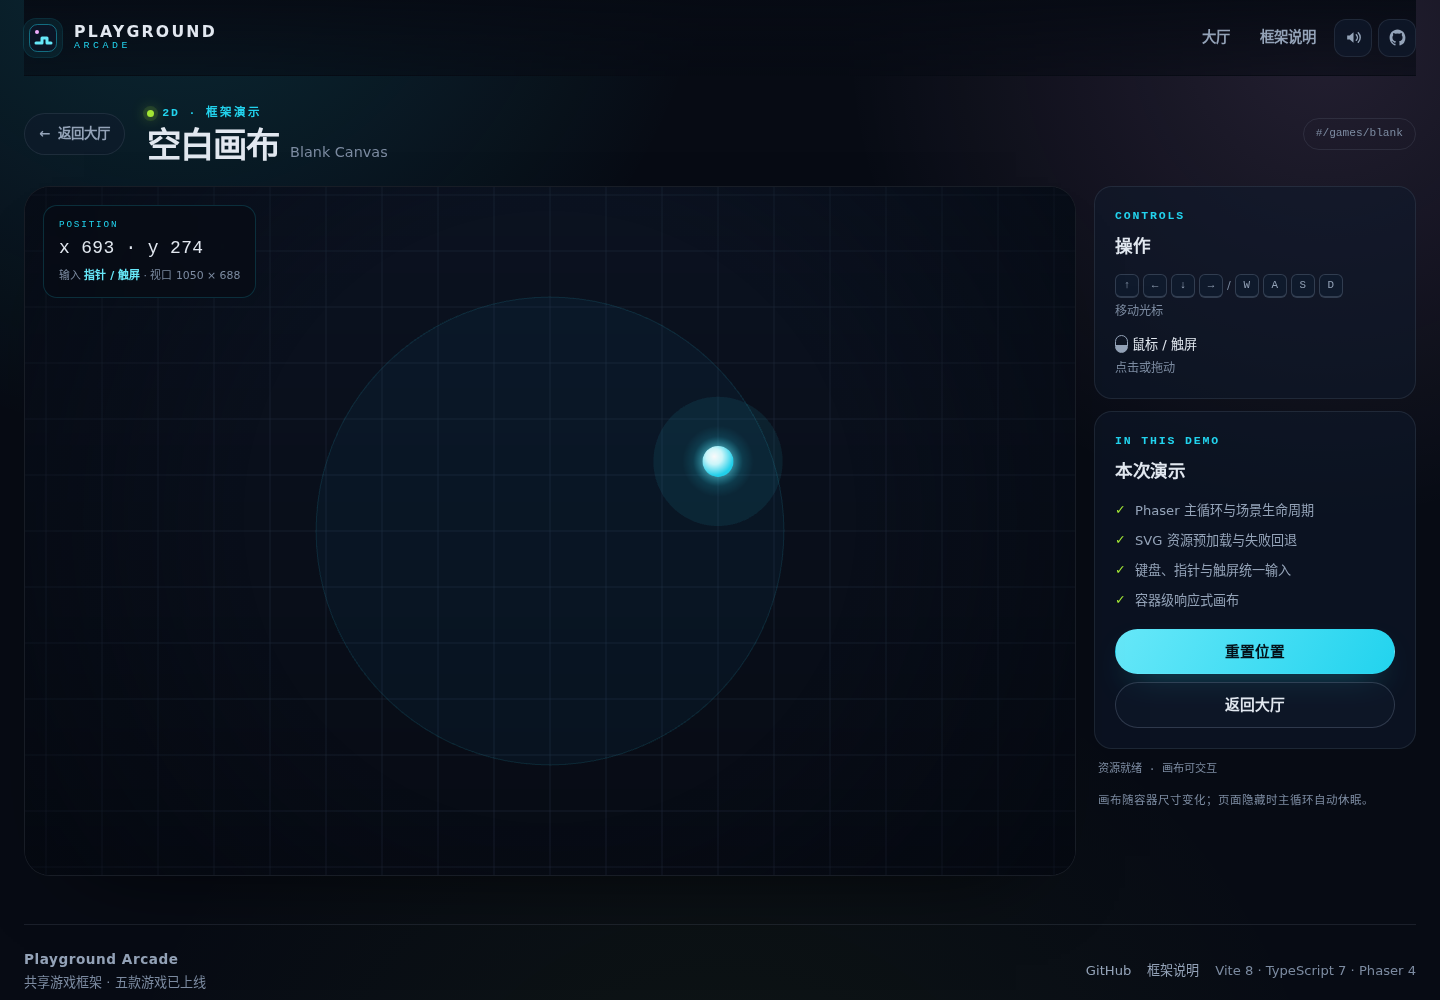
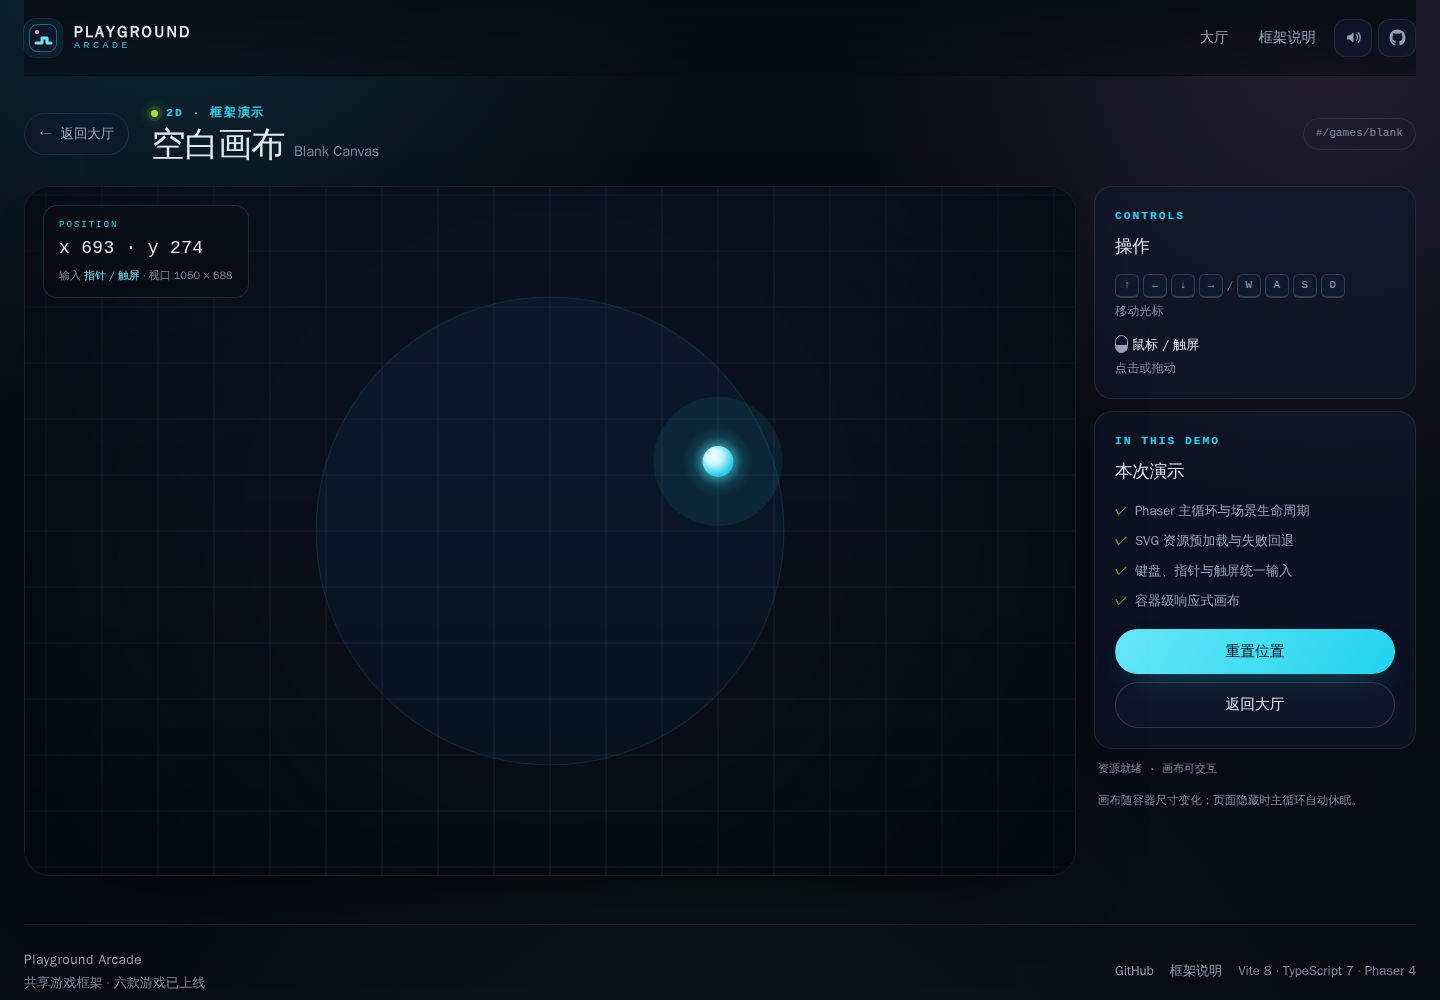
固定容器重拍空白画布证据并纳入 doc-dims 校验 (#429)
- 在固定 Playwright 容器用 `npm run screenshots:container -- screenshots` 连续两跑，
  两张空白画布图逐字节一致（desktop e8b5ec… / mobile 5fde4b…），与 base 7f90dcd
  的固定容器记录一致；顺带写出的 hub 图已还原，WebKit 清单未改动。
- docs/screenshots/README.md：复现改为固定容器命令，撤销宿主 `npm run screenshots`
  重跑等于已提交产物的断言（历史快照按 #137 口径区分）；t2「After」表补 CSS 视口 /
  PNG 尺寸与完整 sha256，doc-dims 计数同步为 30 行 / 30 文件、视口 14、sha256 16。
- tests/unit/screenshot-doc-dims.test.ts：更新计数、viewport 文件集合、hashed rows
  与 CLI 输出断言，并新增两张空白图的尺寸与完整 sha256 断言。

验证：npm run build、npm run lint、npm run test:unit（1666 passed）、
npm run verify:screenshots:doc-dims、npm run verify:screenshots:sha256 通过。

diff --git a/tests/unit/screenshot-doc-dims.test.ts b/tests/unit/screenshot-doc-dims.test.ts
@@ -250,18 +250,18 @@ describe('parseDocDimensions', () => {
     ]);
   });
 
-  it('lists the 16 full-page and 12 viewport rows in the committed README', () => {
+  it('lists the 16 full-page and 14 viewport rows in the committed README', () => {
     const rows = parseDocDimensions(readFileSync(README, 'utf8'));
     const fullPage = rows.filter((row) => row.kind === 'full-page');
     const viewport = rows.filter((row) => row.kind === 'viewport');
     const fullPageFiles = fullPage.flatMap((row) => row.files);
     const viewportFiles = viewport.flatMap((row) => row.files);
 
-    expect(rows).toHaveLength(28);
+    expect(rows).toHaveLength(30);
     expect(fullPage).toHaveLength(16);
     expect(fullPageFiles).toHaveLength(16);
-    expect(viewport).toHaveLength(12);
-    expect(viewportFiles).toHaveLength(12);
+    expect(viewport).toHaveLength(14);
+    expect(viewportFiles).toHaveLength(14);
     expect(
       fullPageFiles.filter((file) => file.includes('scores') && !file.includes('clear')),
     ).toHaveLength(4);
@@ -281,6 +281,8 @@ describe('parseDocDimensions', () => {
         'after-hub-hero-1440x1000.png',
         'before-hub-hero-320x640.png',
         'after-hub-hero-320x640.png',
+        'after-blank-desktop.png',
+        'after-blank-mobile.png',
       ]),
     );
 
@@ -289,7 +291,8 @@ describe('parseDocDimensions', () => {
     );
     for (const file of ['before-zhen-sha-route-desktop.png', 'after-zhen-sha-route-desktop.png',
       'before-hub-copy-desktop.png', 'after-hub-copy-desktop.png',
-      'before-hub-hero-1440x1000.png', 'after-hub-hero-1440x1000.png']) {
+      'before-hub-hero-1440x1000.png', 'after-hub-hero-1440x1000.png',
+      'after-blank-desktop.png']) {
       expect(viewportByFile.get(file)).toMatchObject({
         viewportWidth: 1440,
         viewportHeight: 1000,
@@ -307,9 +310,15 @@ describe('parseDocDimensions', () => {
         height: 1280,
       });
     }
+    expect(viewportByFile.get('after-blank-mobile.png')).toMatchObject({
+      viewportWidth: 390,
+      viewportHeight: 844,
+      width: 780,
+      height: 1688,
+    });
   });
 
-  it('documents a complete sha256 for the 12 viewport rows and 2 hub full-page rows', () => {
+  it('documents a complete sha256 for the 14 viewport rows and 2 hub full-page rows', () => {
     const readmeText = readFileSync(README, 'utf8');
     const rows = parseDocDimensions(readmeText);
     const hashedRows = rows.filter((row) => row.hashes.some((hash) => hash !== null));
@@ -329,6 +338,8 @@ describe('parseDocDimensions', () => {
       'after-hub-hero-1440x1000.png',
       'before-hub-hero-320x640.png',
       'after-hub-hero-320x640.png',
+      'after-blank-desktop.png',
+      'after-blank-mobile.png',
     ]);
     for (const row of hashedRows) {
       expect(row.files).toHaveLength(1);
@@ -351,6 +362,35 @@ describe('parseDocDimensions', () => {
       expect(row?.hashes).toEqual([
         sha256Of(readFileSync(join(SCREENSHOT_DIR, file))),
       ]);
+    }
+
+    const blankRows = rows.filter((row) =>
+      row.files.some(
+        (file) => file === 'after-blank-desktop.png' || file === 'after-blank-mobile.png',
+      ),
+    );
+    expect(blankRows).toHaveLength(2);
+    const blankRowsByFile = new Map(
+      blankRows.flatMap((row) => row.files.map((file) => [file, row] as const)),
+    );
+    for (const [file, expected] of [
+      [
+        'after-blank-desktop.png',
+        { viewportWidth: 1440, viewportHeight: 1000, width: 1440, height: 1000 },
+      ],
+      [
+        'after-blank-mobile.png',
+        { viewportWidth: 390, viewportHeight: 844, width: 780, height: 1688 },
+      ],
+    ] as const) {
+      const row = blankRowsByFile.get(file);
+      expect(row?.kind).toBe('viewport');
+      expect(row).toMatchObject(expected);
+      expect(row?.hashes).toEqual([sha256Of(readFileSync(join(SCREENSHOT_DIR, file)))]);
+      expect(readPngDimensions(join(SCREENSHOT_DIR, file))).toEqual({
+        width: expected.width,
+        height: expected.height,
+      });
     }
   });
 });
@@ -849,18 +889,18 @@ describe('parsePngDimensions', () => {
 });
 
 describe('verifyDocDimensions', () => {
-  it('passes for the committed README with 28 rows and 28 files', () => {
+  it('passes for the committed README with 30 rows and 30 files', () => {
     const report = verifyDocDimensions({
       readmeText: readFileSync(README, 'utf8'),
       dir: SCREENSHOT_DIR,
     });
 
     expect(report).toEqual({
-      rows: 28,
-      files: 28,
+      rows: 30,
+      files: 30,
       fullPageRows: 16,
-      viewportRows: 12,
-      sha256Files: 14,
+      viewportRows: 14,
+      sha256Files: 16,
       problems: [],
     });
   });
@@ -1292,10 +1332,10 @@ describe('check-screenshot-doc-dims CLI', () => {
 
     expect(stderr).toBe('');
     expect(status).toBe(0);
-    expect(stdout).toContain('28 个文件');
-    expect(stdout).toContain('28 行 README');
-    expect(stdout).toContain('整页 16 行 / 视口 12 行');
-    expect(stdout).toContain('sha256 14 个文件');
+    expect(stdout).toContain('30 个文件');
+    expect(stdout).toContain('30 行 README');
+    expect(stdout).toContain('整页 16 行 / 视口 14 行');
+    expect(stdout).toContain('sha256 16 个文件');
     expect(stdout).toContain('尺寸与 sha256 全部一致');
   });
 

diff --git a/docs/screenshots/README.md b/docs/screenshots/README.md
@@ -203,37 +203,37 @@
 
 - 覆盖范围：`docs/screenshots/README.md` 表格里的尺寸行、完整 sha256 与 `docs/screenshots/<file>.png` 逐项比对：
   - 整页行 `整页 W×H`：把文档尺寸与 PNG 签名 / IHDR 宽高比对，共 16 行 / 16 个文件，其中包括「通用大厅整页证据」收录的 `after-hub-desktop.png` / `after-hub-mobile.png`。
-  - 视口行 `CSS 视口 / PNG 尺寸`（`W1×H1 / W2×H2`）：只把斜杠后的 `W2×H2` 与 PNG 签名 / IHDR 宽高比对；斜杠前的 CSS 视口按 DPR 可能与 PNG 尺寸不同，仅作为文档元数据保留。现有 12 条视口证据是 `before/after-zhen-sha-route-desktop`、`before/after-zhen-sha-route-320x640`、`before/after-hub-copy-desktop`、`before/after-hub-copy-320x640`、`before/after-hub-hero-1440x1000`、`before/after-hub-hero-320x640`，共 12 行 / 12 个文件。
-  - 完整 sha256：同一表格行最后一列（捕获命令 / sha256）里反引号包裹的哈希按文件位置一一对齐（每个文件一个哈希槽），完整 64 位哈希用 `node:crypto` 的 SHA-256 计算 `docs/screenshots/<file>.png` 的实际哈希后比对；现有 12 条视口证据与「通用大厅整页证据」两行各带 1 个完整哈希，共 14 个文件。哈希与尺寸在同一行、同一次遍历中校验。
+  - 视口行 `CSS 视口 / PNG 尺寸`（`W1×H1 / W2×H2`）：只把斜杠后的 `W2×H2` 与 PNG 签名 / IHDR 宽高比对；斜杠前的 CSS 视口按 DPR 可能与 PNG 尺寸不同，仅作为文档元数据保留。现有 14 条视口证据：`before/after-zhen-sha-route-desktop`、`before/after-zhen-sha-route-320x640`、`before/after-hub-copy-desktop`、`before/after-hub-copy-320x640`、`before/after-hub-hero-1440x1000`、`before/after-hub-hero-320x640` 共 12 条，加上 t2「After」表的 `after-blank-desktop.png` / `after-blank-mobile.png` 2 条，共 14 行 / 14 个文件。
+  - 完整 sha256：同一表格行最后一列（捕获命令 / sha256）里反引号包裹的哈希按文件位置一一对齐（每个文件一个哈希槽），完整 64 位哈希用 `node:crypto` 的 SHA-256 计算 `docs/screenshots/<file>.png` 的实际哈希后比对；现有 14 条视口证据与「通用大厅整页证据」两行各带 1 个完整哈希，共 16 个文件。哈希与尺寸在同一行、同一次遍历中校验。
   - 省略号简写：解析器把带 `…` 的缩略哈希当作空槽跳过，不与文件比较；本 README 的表格已无缩略哈希写法（「通用大厅整页证据」两行已改用完整哈希），解析器保留该兼容分支并由测试覆盖。不带省略号的 8–63 位短十六进制若恰好是文件 sha256 的前缀，会作为截断报告（见失败表现），以免把写短的完整哈希静默放过；普通短十六进制（如表格里的 7 位提交前缀）不受影响。
-  - 合计 28 行 / 28 个文件，其中 14 个文件校验完整 sha256。只读 README 与已提交 PNG，不执行截图脚本、不写文件，也不需要浏览器或生产构建。
+  - 合计 30 行 / 30 个文件，其中 16 个文件校验完整 sha256。只读 README 与已提交 PNG，不执行截图脚本、不写文件，也不需要浏览器或生产构建。
 - CI 位置：`.github/workflows/ci.yml` 的 `verify` job，在 `Unit tests`（`npm run test:unit`）之后、`Production build`（`npm run build`）之前新增名为 `Screenshot doc dimensions` 的步骤；`verify` 的 `timeout-minutes` 保持 20。放在构建前，尺寸或哈希漂移会尽早失败。
 - 步骤命令：`npm run verify:screenshots:doc-dims`（即 `node scripts/check-screenshot-doc-dims.mjs`）。
-- 复现命令：`npm run verify:screenshots:doc-dims`。通过时输出 `OK: 检查了 28 个文件 / 28 行 README（整页 16 行 / 视口 12 行，sha256 14 个文件），尺寸与 sha256 全部一致。` 并以 0 退出；该计数与 `tests/unit/screenshot-doc-dims.test.ts` 的 CLI 契约断言一致。
+- 复现命令：`npm run verify:screenshots:doc-dims`。通过时输出 `OK: 检查了 30 个文件 / 30 行 README（整页 16 行 / 视口 14 行，sha256 16 个文件），尺寸与 sha256 全部一致。` 并以 0 退出；该计数与 `tests/unit/screenshot-doc-dims.test.ts` 的 CLI 契约断言一致。
 - 失败表现：尺寸问题与哈希问题进入同一个问题列表，并以相同的非 0 状态退出。把 `after-hub-copy-desktop.png` 行斜杠后的 `1440×1000` 改成 `1441×1000` 后，本地实测输出：
 
 ```text
-FAIL: 发现 1 处尺寸 / sha256 问题（检查了 28 个文件 / 28 行 README，整页 16 行 / 视口 12 行）：
+FAIL: 发现 1 处尺寸 / sha256 问题（检查了 30 个文件 / 30 行 README，整页 16 行 / 视口 14 行）：
   README 87: after-hub-copy-desktop.png: 视口 PNG 1441×1000 != PNG 1440×1000（尺寸不一致）
 ```
 
   把 `after-zhen-sha-route-desktop.png` 行的完整 sha256 首字符 `8` 改成 `0` 后输出：
 
 ```text
-FAIL: 发现 1 处尺寸 / sha256 问题（检查了 28 个文件 / 28 行 README，整页 16 行 / 视口 12 行）：
+FAIL: 发现 1 处尺寸 / sha256 问题（检查了 30 个文件 / 30 行 README，整页 16 行 / 视口 14 行）：
   README 68: after-zhen-sha-route-desktop.png: sha256 文档 0f903d39bb5e681ec9a59a322ab5a759c5058df6c24f6ffa44a11785ef1a8002 != 实际 8f903d39bb5e681ec9a59a322ab5a759c5058df6c24f6ffa44a11785ef1a8002（sha256 不一致）
 ```
 
   把同一行的完整 sha256 去掉最后一位（截断成 63 位）后输出：
 
 ```text
-FAIL: 发现 1 处尺寸 / sha256 问题（检查了 28 个文件 / 28 行 README，整页 16 行 / 视口 12 行）：
+FAIL: 发现 1 处尺寸 / sha256 问题（检查了 30 个文件 / 30 行 README，整页 16 行 / 视口 14 行）：
   README 68: after-zhen-sha-route-desktop.png: sha256 文档 8f903d39bb5e681ec9a59a322ab5a759c5058df6c24f6ffa44a11785ef1a800 != 实际 8f903d39bb5e681ec9a59a322ab5a759c5058df6c24f6ffa44a11785ef1a8002（sha256 截断：文档 63 位，实际 64 位）
 ```
 
   以上修改都以 1 退出，恢复文档后重新通过；「通用大厅整页证据」两行现在也校验完整 sha256，改错一个字符，或删掉末尾一位（得到 63 位前缀），同样以 1 退出并给出行号、文件名与两份哈希。整页行仍按原口径校验，把 `after-minesweeper-scores-desktop.png` 行的 `整页 1440×1606` 改成 `1440×1607` 时输出 `README 296: after-minesweeper-scores-desktop.png: 整页 1440×1607 != PNG 1440×1606（尺寸不一致）`。PNG 缺失、PNG 签名错误或 IHDR 截断时同样逐条给出 README 行号、文件名、文档值与实际 PNG 状态。
 - 实测耗时：2026-11-11 在 `agent/plan-134-t1` 的本地 worktree 实测，`npm run verify:screenshots:doc-dims` 约 0.08–0.09 s（`node scripts/check-screenshot-doc-dims.mjs` 本身约 0.02 s，其余为 npm 启动开销），属于毫秒级；相对 `verify` job 的分钟级耗时（见下节 WebKit 冒烟步骤的参考 run）可忽略。CI runner 的绝对耗时不同，以实际 run 为准。
-- 防回归：`tests/unit/ci-workflow.test.ts` 断言 `Screenshot doc dimensions` 步骤存在、其 `run` 恰为 `npm run verify:screenshots:doc-dims`、位于 `npm run test:unit` 之后且在 `npm run build` 之前，并继续钉住 `verify` 的 `timeout-minutes: 20`；脚本行为（整页 / 视口尺寸写错、完整 sha256 写错与截断、省略号简写跳过、PNG 缺失 / 签名错误 / IHDR 截断、CLI 退出码与 28 行 / 28 文件 / 14 个哈希文件计数）由 `tests/unit/screenshot-doc-dims.test.ts` 覆盖。
+- 防回归：`tests/unit/ci-workflow.test.ts` 断言 `Screenshot doc dimensions` 步骤存在、其 `run` 恰为 `npm run verify:screenshots:doc-dims`、位于 `npm run test:unit` 之后且在 `npm run build` 之前，并继续钉住 `verify` 的 `timeout-minutes: 20`；脚本行为（整页 / 视口尺寸写错、完整 sha256 写错与截断、省略号简写跳过、PNG 缺失 / 签名错误 / IHDR 截断、CLI 退出码与 30 行 / 30 文件 / 16 个哈希文件计数）由 `tests/unit/screenshot-doc-dims.test.ts` 覆盖。
 
 ## CI：WebKit 窄屏截图冒烟（Issue #121）
 
@@ -808,20 +808,22 @@ npm run screenshots:baseline
 
 ### After
 
-| 文件 | 场景 | 视口 / 主题 | 说明 |
+| 文件 | 场景 | CSS 视口 / PNG 尺寸 | sha256 |
 | --- | --- | --- | --- |
-| `after-blank-desktop.png` | 空白画布游戏（指针移动并停稳后） | 1440×1000 / 深色 | 可交互画布、HUD、操作面板与重置入口。 |
-| `after-blank-mobile.png` | 空白画布游戏（触屏移动并停稳后） | 390×844（DPR 2）/ 深色 | 自适应画布、触屏操作与面板堆叠。 |
[2 lines of base64/hex data omitted]
+
+这两行是两张空白画布图尺寸与完整 sha256 的唯一自动校验来源：`npm run verify:screenshots:doc-dims` 会用表中的 PNG 尺寸与哈希校验已提交字节。
 
 `after-hub-desktop.png` / `after-hub-mobile.png` 已由后续 t4 / t5 / t6 更新为含 2048、打砖块与扫雷的五游戏大厅；t2 表格里的「只有空白画布卡片」描述的是 t2 当时状态。
 
-生成方式（会先构建，再用 `vite preview` 在 4174 端口启动生产预览）：
+生成方式（固定 Playwright 容器内先构建，再用 `vite preview` 在 4174 端口启动生产预览；宿主 `npm run screenshots` 只用于本地预览，不作为已提交证据的复现基准）：
 
 ```bash
-npm run screenshots
+npm run screenshots:container -- screenshots
 ```
 
-截图使用 `reducedMotion: 'reduce'`，避免动效造成每张图不一致。
+`npm run screenshots:container -- screenshots` 还会写出 `after-hub-desktop.png` / `after-hub-mobile.png`；提交本任务证据前用 `git checkout -- docs/screenshots/after-hub-*.png` 还原，保持未受影响的已提交产物不变。截图使用 `reducedMotion: 'reduce'`，避免动效造成每张图不一致。
 
 ### 空白画布截图确定性（plan-135 子任务 3）
 
@@ -831,16 +833,18 @@ npm run screenshots
 - 确定性条件：`reducedMotion: reduce` 下目标圆环不脉冲、orb 缩放固定为 1；orb 到达目标后场景把 `target` 置空并精确落到点击点，trail 按 1.15 s 生命衰减并从数组移除。等 `data-trail="0"` 后画面只剩固定 backdrop / 网格 / 静态 orb，不再随时间变化，因此同一构建的截图在场景内逐字节一致；正常交互没有变化，也不需要新增调试接缝。WebKit 空白路径还额外等待共享 header 的字体并在截图前重绘其 `backdrop-filter` 快照（`settleSharedHeaderCompositing`，blank 路径经 `settleBlankHeader` 复用，见下条），避免站点头部在路由切换后以每通道 1 个色阶的差异被合成；正常页面渲染不变，也不是产品调试接缝。
[2 lines of base64/hex data omitted]
-- 复现（同一构建、预览端口 4174 空闲；Chromium 在宿主、WebKit 在固定容器内各跑至少两次；WebKit 空白图按 Issue #326、hub 图按 Issue #341 t2 改为固定容器内连跑至少 4 次，并包含一次冷启动或并发负载）：
+- 复现（同一构建、固定 Playwright 容器内；Chromium 桌面 / 手机用同一条命令连续两跑；WebKit 空白图按 Issue #326、hub 图按 Issue #341 t2 连跑至少 4 次，并包含一次冷启动或并发负载）：
 
   ```sh
-  npm run screenshots
+  npm run screenshots:container -- screenshots
   npm run screenshots:container -- screenshots:webkit
   sha256sum docs/screenshots/after-blank-{desktop,mobile,webkit}.png
   ```
 
[3 lines of base64/hex data omitted]
+- 宿主命令不再是复现基准：宿主 `npm run screenshots` 使用宿主安装的 Chromium、字体与 EGL 环境，写出的字节可以不同于固定容器产物，因此不能用来重写或校验已提交的空白画布 PNG；已提交 After 图只代表各自捕获时点的构建，跨构建 / 跨宿主的像素差异按「历史 After 证据与当前构建不一致（Issue #137）」处理，不要求宿主重跑等于已提交快照。
+- 固定容器重拍（Issue #429）：2026-11-23 在固定容器内用 `npm run screenshots:container -- screenshots` 连续两跑，两跑写出的两张空白画布图逐字节相同，并与 base `7f90dcd` 的固定容器记录一致；本次提交以上述两跑 PNG 为准，尺寸与完整 sha256 只记录在上方「After」表（由 `verify:screenshots:doc-dims` 自动校验）。#429 之前的已提交 PNG 是更早构建的历史快照，不再声称等于当前构建。
[1 lines of base64/hex data omitted]
 - 回归护栏：`tests/unit/capture-blank-determinism.test.ts` 用 fake page 运行时覆盖 `scripts/lib/blank-settle.mjs` 的 `waitForBlankSettled`（未连续 N 次落点且 `trail` 未清零就不返回、移动会重置连续计数、超时带最后读数报错）与 `nextBlankStableStreak`，并静态钉住 `capture-screenshots.mjs` 的 `tapBlankCanvas` 内确实 `await waitForBlankSettled(page, target)`、3 个场景都走同一等待、脚本不再含 `waitForTimeout(700)`、`view.ts` 暴露 `data-trail`。删除该等待会让单测失败。Issue #326 的 header 接缝现在由通用模块与 blank 包装共同覆盖：`tests/unit/webkit-compositing-settle.test.ts` 用 jsdom 运行时测试 `settleSharedHeaderCompositing` / `repaintSharedHeader` 必须等待 `document.fonts.ready`，在两次 toggle 之间各等待配置的 commit 数，最后恢复为空值，header 缺失时抛错，并覆盖注入 `evaluate` 与自定义 `selector` / `frames` 的非 blank 编排；`tests/unit/capture-blank-determinism.test.ts` 静态钉住 `captureWebkitMobile` 中 `tapBlankCanvas` → `settleBlankHeader` → `after-blank-webkit.png` 的顺序、该接缝只出现一次且不进入 hub / Chromium 空白路径，断言 blank 模块只复用通用模块而不保留第二套 toggle / rAF 实现，并把选择器与 `src/app/app.ts` 的真实 `.site-header` 关联。Issue #341 t2 的 hub 接线由 `tests/unit/capture-hub-determinism.test.ts` 钉住：`captureWebkitMobile` 里 `settleSharedHeaderCompositing` 与 `settleHubHeroCompositing` 都必须位于 hub 加载之后、`after-hub-webkit.png` 截图之前且各出现一次（hero 动画落定最靠近截图），blank 路径的顺序保持不变，Chromium 的 `captureDesktop` / `captureMobile` 不得调用它们；jsdom 运行时用例证明 `settleHubHeroAnimations` 会先 finish 动画、等动画全部结束后才走配置的 commit 等待，动画仍在跑时抛错，复用同一 jsdom 用例证明 header / hero 缺失时捕获失败而不是静默跳过。删除调用、少一次 toggle / commit 等待、去掉恢复或跳过缺失元素都会让单测失败。
 
 ### 证据限制
